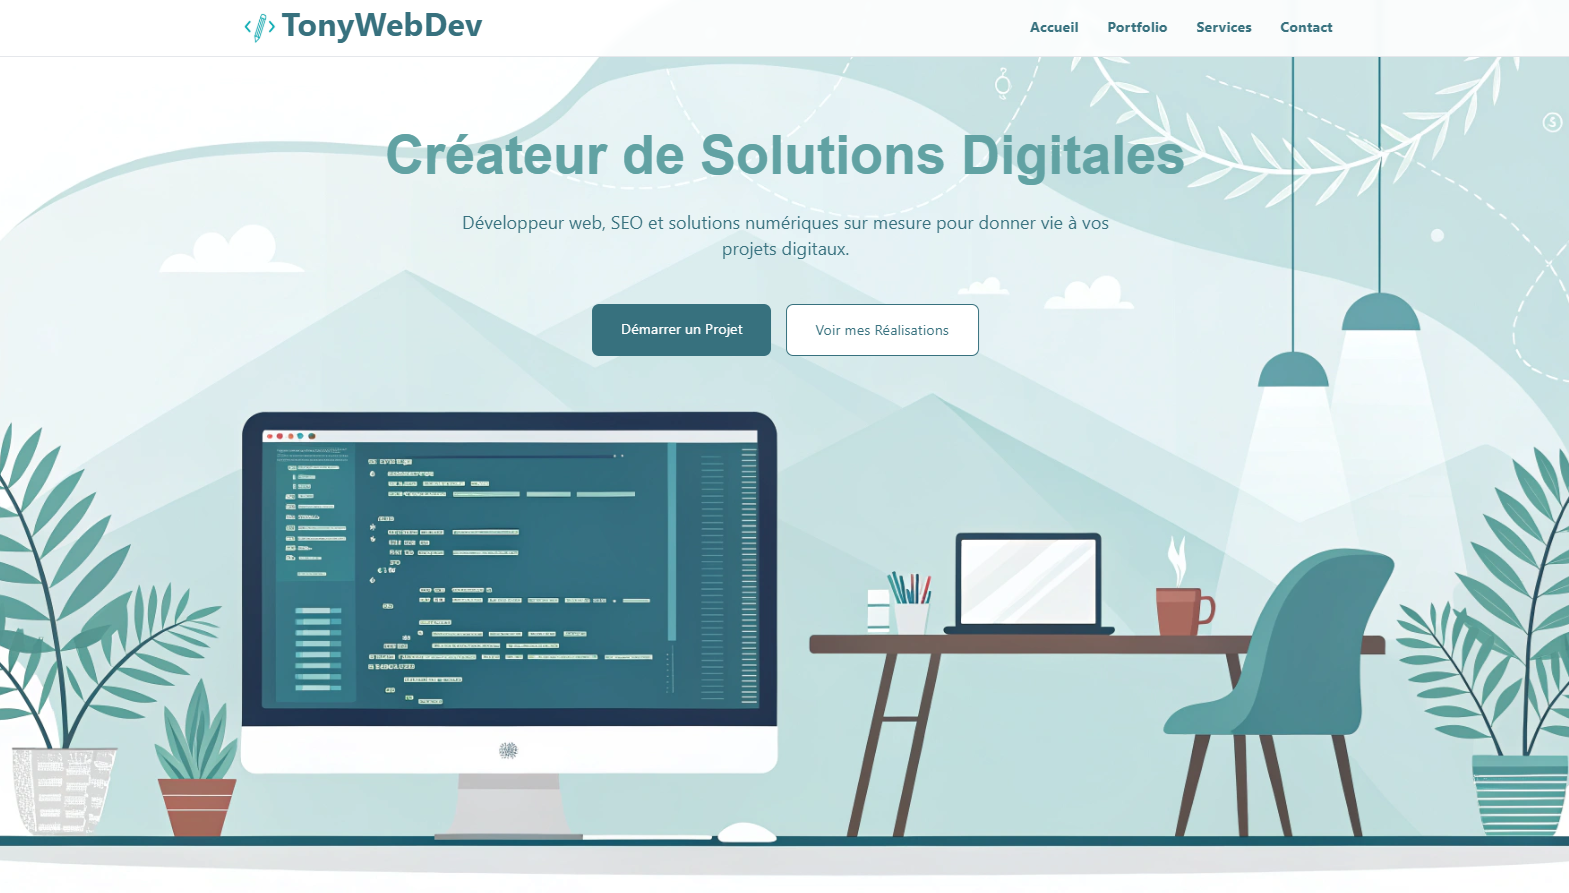
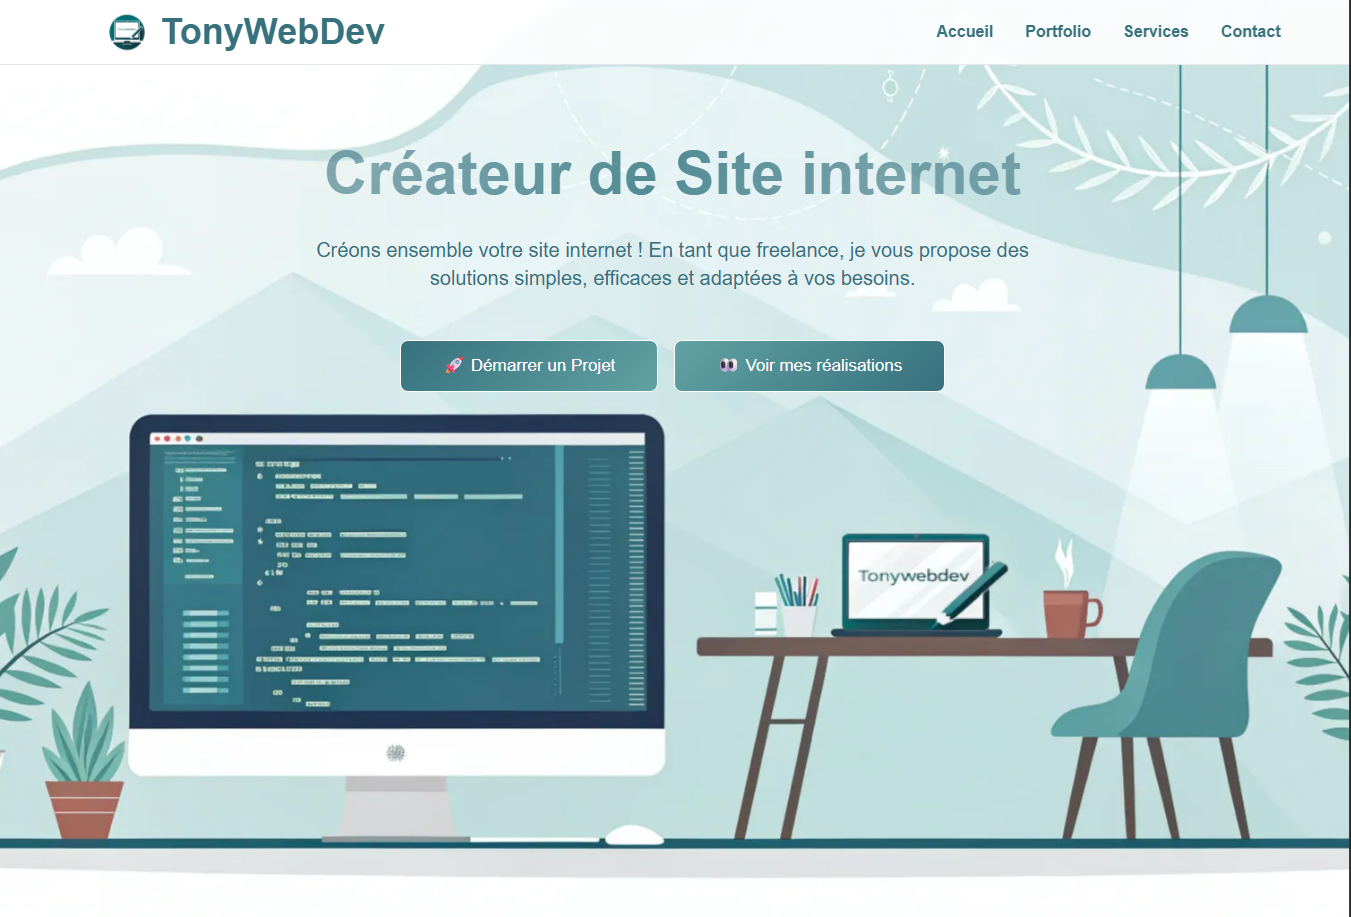
Modif du footer

diff --git a/src/App.tsx b/src/App.tsx
@@ -2,7 +2,7 @@ import React from "react";
 import { Menu, X, Code, Search, Settings } from "lucide-react";
 import { useState, useRef, useEffect } from "react";
 import emailjs from "@emailjs/browser";
-import Popup from "./components/Popup";
+// import Popup from "./components/Popup";
 
 interface ServiceCardProps {
   icon: React.ReactNode;
@@ -141,14 +141,14 @@ function App() {
 
   return (
     <div className="min-h-screen bg-white">
-      <Popup />
+      {/* <Popup /> */}
       {/* Navigation */}
       <nav className="fixed w-full bg-white/90 backdrop-blur-sm z-50 border-b">
         <div className="max-w-7xl mx-auto px-4 sm:px-6 lg:px-8">
           <div className="flex justify-between h-16 items-center">
             <div className="text-4xl flex flex-row font-bold text-customBlue items-center max-sm:text-2xl ">
               <img
-                className="w-[120px] h-[120px] mt-6 mr-[-24px]"
+                className="w-[60px] h-[60px]"
                 src="logo3svg.png"
                 alt="logo de tonyWebDev"
               ></img>
@@ -187,9 +187,16 @@ function App() {
             <div className="md:hidden">
               <button
                 onClick={() => setIsMenuOpen(!isMenuOpen)}
-                className="text-gray-700 mt-4"
+                className="text-gray-700 mt-4 p-2 hover:bg-gray-100 rounded-lg"
+                aria-expanded={isMenuOpen}
+                aria-label={isMenuOpen ? "Fermer le menu" : "Ouvrir le menu"}
+                aria-controls="mobile-menu"
               >
-                {isMenuOpen ? <X size={24} /> : <Menu size={24} />}
+                {isMenuOpen ? (
+                  <X size={24} aria-hidden="true" />
+                ) : (
+                  <Menu size={24} aria-hidden="true" />
+                )}
               </button>
             </div>
           </div>
@@ -231,7 +238,7 @@ function App() {
       {/* Hero Section */}
       <section
         id="home"
-        className="bg-[url('/background.svg')] bg-cover bg-center min-h-screen flex justify-center"
+        className="bg-[url('/background_reduit.webp')] bg-cover bg-center min-h-screen flex justify-center"
       >
         <div className="max-w-7xl mx-auto px-4 sm:px-6 lg:px-8 pt-20">
           <div className="text-center px-4">
@@ -382,8 +389,8 @@ function App() {
               className="text-customBlue font-bold hover:text-customBlue2"
             >
               <img
-                className="w-[300px] h-[300px] mb-[-180px] mt-[-50px]"
-                src="logo3.png"
+                className="w-[100px] h-[100px] mb-[-180px] mt-[-30px]"
+                src="logo3svg.png"
                 alt="logo de tonyWebDev"
               ></img>
             </a>
@@ -419,7 +426,7 @@ function App() {
                 image="portfolio.webp"
                 title="Portfolio"
                 category="Application Web"
-                website="https://coolbrizz.github.io/MonPortfolio/"
+                website="https://tonywebdev.fr/"
               />
               <PortfolioCard
                 image="nailsiana.webp"
@@ -514,26 +521,39 @@ function App() {
         <div className="max-w-7xl mx-auto px-4 sm:px-6 lg:px-8">
           <div className="grid text-center md:grid-cols-3 gap-8">
             <div>
+              <h3 className="text-xl font-bold mb-4">Contact</h3>
+              <p className="text-customBlue3">
+                <a
+                  href="mailto:antony.auvray@hotmail.com"
+                  className="text-customBlue3 hover:text-white  text-bottom"
+                >
+                  antony.auvray@hotmail.com
+                  <img
+                    src="mail.png"
+                    alt="Email"
+                    className="w-8 h-8 ml-4 inline-block"
+                  />{" "}
+                </a>
+                <br />
+                <br />
+                <a className="mt-2" href="https://wa.me/33658092835">
+                  Envoyer un message WhatsApp{" "}
+                  <img
+                    src="whatsapp2.png"
+                    alt="whatsapp"
+                    className="w-10 h-10 inline-block"
+                  />
+                </a>
+              </p>
+            </div>
+            <div>
               <h3 className="text-xl font-bold mb-4">Portfolio</h3>
               <p className="text-customBlue3">
                 Création de solutions digitales sur mesure pour votre succès en
                 ligne.
               </p>
-            </div>
-            <div>
-              <h3 className="text-xl font-bold mb-4">Contact</h3>
               <p className="text-customBlue3">
-                <a
-                  href="mailto:antony.auvray@hotmail.com"
-                  className="text-customBlue3 hover:text-white "
-                >
-                  Email: antony.auvray@hotmail.com
-                </a>
-                <br />
-                <br />
-                <a className="mt-2" href="https://wa.me/33658092835">
-                  Envoyer un message WhatsApp 📨
-                </a>
+                Accompagnement personnalisé pour embellir votre projet.
               </p>
             </div>
             <div>
@@ -543,7 +563,21 @@ function App() {
                   href="https://www.linkedin.com/in/antony-auvray-669bb6353/"
                   className="text-customBlue3 hover:text-white "
                 >
-                  LinkedIn
+                  <img
+                    src="linkedin.png"
+                    alt="LinkedIn"
+                    className="w-[120px] h-[50px] rounded-md mx-auto"
+                  />
+                </a>
+                <a
+                  href="https://www.facebook.com/tonywebdev"
+                  className="text-customBlue3 hover:text-white "
+                >
+                  <img
+                    src="facebook.png"
+                    alt="Facebook"
+                    className="w-[60px] h-[50px] "
+                  />
                 </a>
               </div>
             </div>

diff --git a/src/login.tsx b/src/login.tsx
@@ -1,0 +1,41 @@
+import { useState } from "react";
+import logo from "../public/logo3.png";
+
+export default function Login() {
+  const [email, setEmail] = useState("");
+  const [password, setPassword] = useState("");
+
+  const handleLogin = () => {
+    console.log(email, password);
+  };
+  return (
+    <div className="flex flex-col items-center justify-center h-screen">
+      <div className="flex flex-col items-center justify-center bg-white p-4 rounded-md shadow-lg border border-gray-300">
+        <img src={logo} alt="Logo" className="w-20 h-20" />
+        <h1 className="text-2xl font-bold text-customBlue mt-4">
+          Login pour accéder à la page administrateur
+        </h1>
+        <input
+          type="text"
+          placeholder="Email"
+          value={email}
+          onChange={(e) => setEmail(e.target.value)}
+          className="w-full px-4 py-2 rounded-md border border-gray-300 mt-8 gap-1"
+        />
+        <input
+          type="password"
+          placeholder="Mot de passe"
+          value={password}
+          onChange={(e) => setPassword(e.target.value)}
+          className="w-full px-4 py-2 rounded-md border border-gray-300 mt-2 gap-1"
+        />
+        <button
+          onClick={handleLogin}
+          className="px-12 py-2 rounded-md border border-gray-300 mt-8 gap-1 bg-customBlue text-white hover:bg-customBlue2"
+        >
+          Login
+        </button>
+      </div>
+    </div>
+  );
+}

diff --git a/src/main.tsx b/src/main.tsx
@@ -5,6 +5,7 @@ import App from "./App";
 import MentionsLegales from "./MentionsLegales";
 import NotFound from "./404";
 import "./index.css";
+import Login from "./login";
 
 const rootElement = document.getElementById("root");
 if (!rootElement) throw new Error("Failed to find the root element");
@@ -18,6 +19,7 @@ root.render(
         <Route path="/mentions-legales" element={<MentionsLegales />} />
         <Route path="/404" element={<NotFound />} />
         <Route path="*" element={<NotFound />} />
+        <Route path="/login" element={<Login />} />
       </Routes>
     </Router>
   </React.StrictMode>

diff --git a/index.html b/index.html
@@ -74,6 +74,6 @@
   </head>
   <body>
     <div id="root"></div>
-    <script type="module" src="./src/main.tsx"></script>
+    <script type="module" src="./src/main.tsx" defer></script>
   </body>
 </html>
